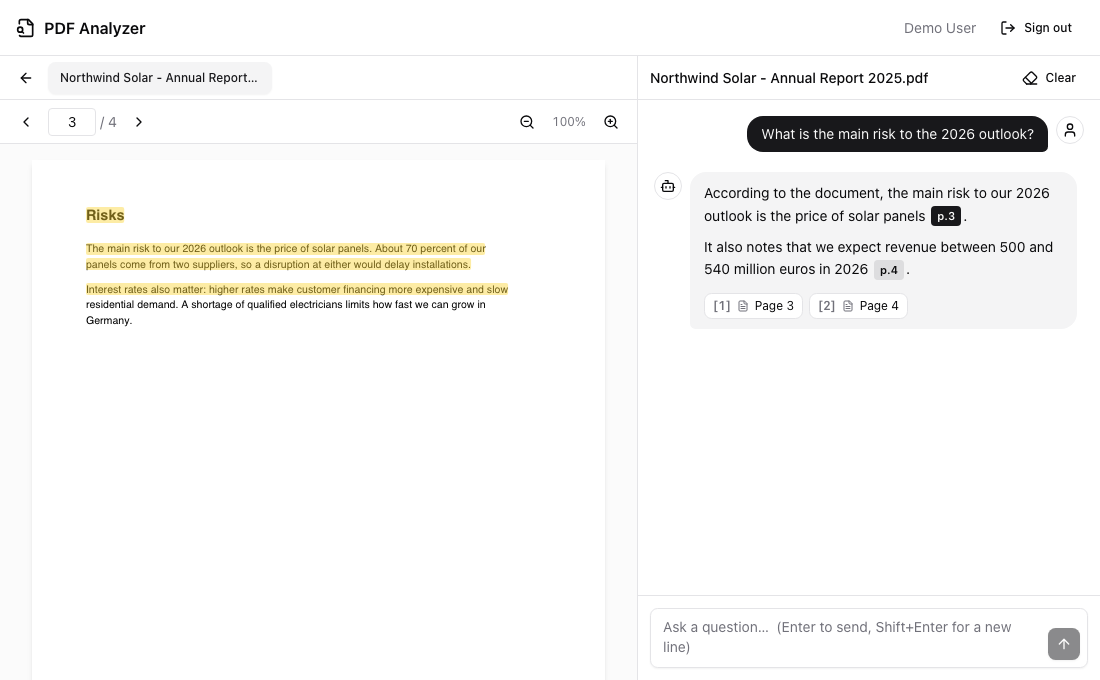
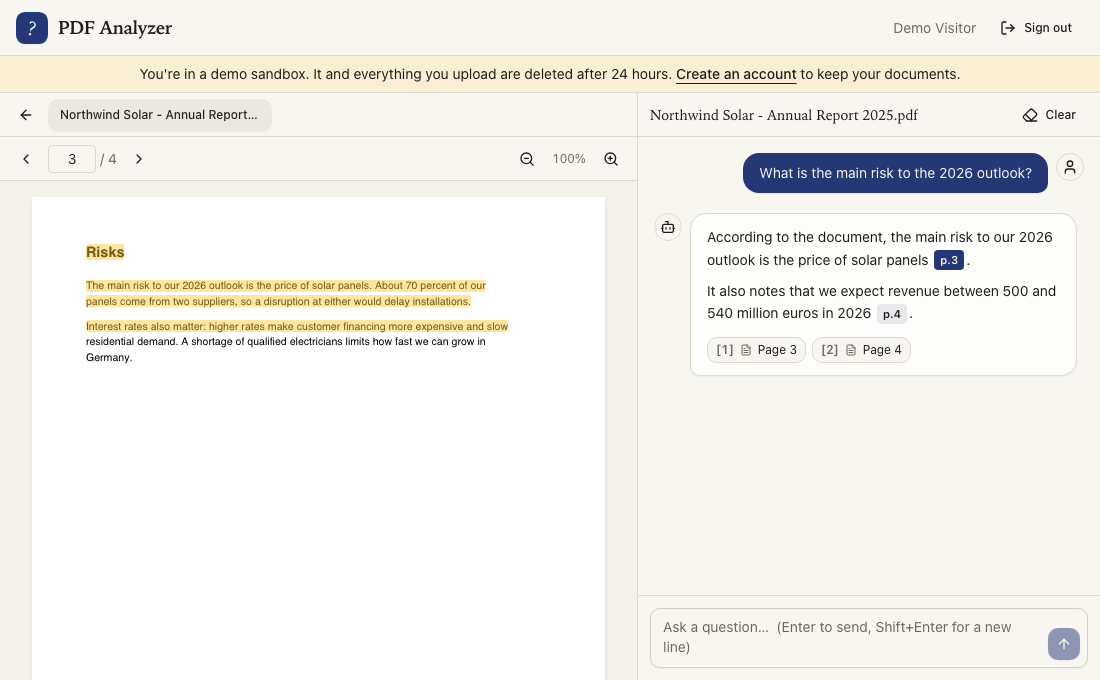
docs: show the demo sandbox and the new design in the README

diff --git a/README.md b/README.md
@@ -5,20 +5,22 @@
 Chat with your PDFs: upload documents, ask questions, and get answers that stream in with page citations you can click to jump to the source.
 
 **Live demo:** not deployed yet. The [Render blueprint](render.yaml) is ready; see [Deploying](#deploying).
-**Demo login:** `demo@pdf-analyzer.dev` / `demo1234`. The account comes with two sample PDFs: a company annual report and an employee handbook. Locally it is created by `docker compose up`.
+**Demo login:** no account needed. Click **Try the demo, no sign-up** on the sign-in page to get a private sandbox with two indexed sample PDFs (a company annual report and an employee handbook). It is deleted after 24 hours. There is also a shared account, `demo@pdf-analyzer.dev` / `demo1234`, which `docker compose up` creates locally.
 
-![Asking a question and jumping to the cited page](docs/demo.gif)
+![Trying the demo: asking a question and jumping to the cited page](docs/demo.gif)
 
 ## Features
 
 - **RAG pipeline written from scratch, no LangChain.** PDF → page text → chunks → Gemini embeddings → PostgreSQL + pgvector → similarity search → a grounded answer.
 - **Page citations.** `[1]` markers in the answer become clickable `p.3` chips. Clicking one opens that page in the PDF viewer and highlights the cited text.
 - **Streaming answers** over Server-Sent Events, with a Stop button. A partial answer is kept.
-- **Multi-document chat.** Select up to 10 PDFs and ask across all of them; each source shows which document it came from.
-- **Chat history saved per document**, plus saved multi-document chats.
-- **Limits and errors.** A 15 MB cap checked on both client and server, a `%PDF-` signature check, scanned-PDF detection ("No text found"), clear errors for password-protected and corrupt files, and rate limits on sign-ins, uploads and questions.
-- **Accounts.** JWT in an httpOnly cookie, bcrypt password hashes, and every query scoped to the signed-in user.
-- **Runs offline.** With `AI_PROVIDER=fake` the app needs no API key. It uses deterministic embeddings and extractive answers, the same mode the tests run in.
+- **Multi-document chat and saved history.** Select up to 10 PDFs and ask across all of them. Each document keeps its own chat history, and multi-document chats are saved too.
+- **Limits, errors and accounts.** A 15 MB cap checked on both client and server, a `%PDF-` signature check, scanned-PDF detection ("No text found"), clear errors for password-protected and corrupt files, and rate limits on sign-ins, uploads and questions. Sessions use a JWT in an httpOnly cookie with bcrypt password hashes, and every query is scoped to the signed-in user.
+- **Designed for the Mac.** Headings in New York, text in SF Pro and numbers in SF Mono, with light and dark themes. The sign-in page has a wall of "I have a question" in 26 languages, each set in a typeface that ships with macOS. Other systems fall back to their own fonts.
+- **Demo sandboxes.** Visitors try the app without signing up. Each gets a private account with the sample PDFs already indexed, and an hourly job deletes it, along with its stored files, after 24 hours.
+- **Runs offline.** With `AI_PROVIDER=fake` the app needs no API key: it uses deterministic embeddings and extractive answers, the same mode the tests run in.
+
+![Sign-in page with "I have a question" in 26 languages](docs/screenshot-sign-in.png)
 
 ## Tech stack
 
@@ -39,12 +41,13 @@ Chat with your PDFs: upload documents, ask questions, and get answers that strea
 
 ![Architecture diagram](docs/architecture.png)
 
-When a PDF is uploaded, the API extracts its text page by page with pdf.js, rejects scans that have no text, stores the file and returns right away. A background job then splits each page into overlapping chunks, embeds them with Gemini and writes the vectors to pgvector. Because a chunk never crosses a page, every chunk has exactly one page number. To answer a question, the API embeds it and pulls the nearest chunks from the chat's documents (cosine distance, `<=>`). It sends them to the model as numbered sources, streams the reply over SSE and saves the answer with the pages it cited. In Docker, nginx serves the React build and proxies `/api` to Express, so the auth cookie stays same-origin.
+When a PDF is uploaded, the API extracts its text page by page with pdf.js, rejects scans that have no text, stores the file and returns right away. A background job then splits each page into overlapping chunks, embeds them with Gemini and writes the vectors to pgvector. Because a chunk never crosses a page, every chunk has exactly one page number. To answer a question, the API embeds it and pulls the nearest chunks from the chat's documents (cosine distance, `<=>`). It sends them to the model as numbered sources, streams the reply over SSE and saves the answer with the pages it cited. Demo sandboxes are ordinary accounts flagged `isDemo`; a second in-process job removes them after a day. In Docker, nginx serves the React build and proxies `/api` to Express, so the auth cookie stays same-origin.
 
 ```
 apps/api/src/
-  modules/  auth/  documents/  chat/  embeddings/   (routes → controllers → services)
+  modules/  auth/  documents/  chat/  embeddings/  demo/   (routes → controllers → services)
   jobs/     ingestDocument.ts                       (chunk → embed → store, off the request path)
+            cleanupDemoSandboxes.ts                 (hourly: delete demo sandboxes older than 24 h)
   middleware/  lib/
 apps/web/src/
   api/  components/  features/{auth,documents,chat,viewer}/  pages/  lib/
